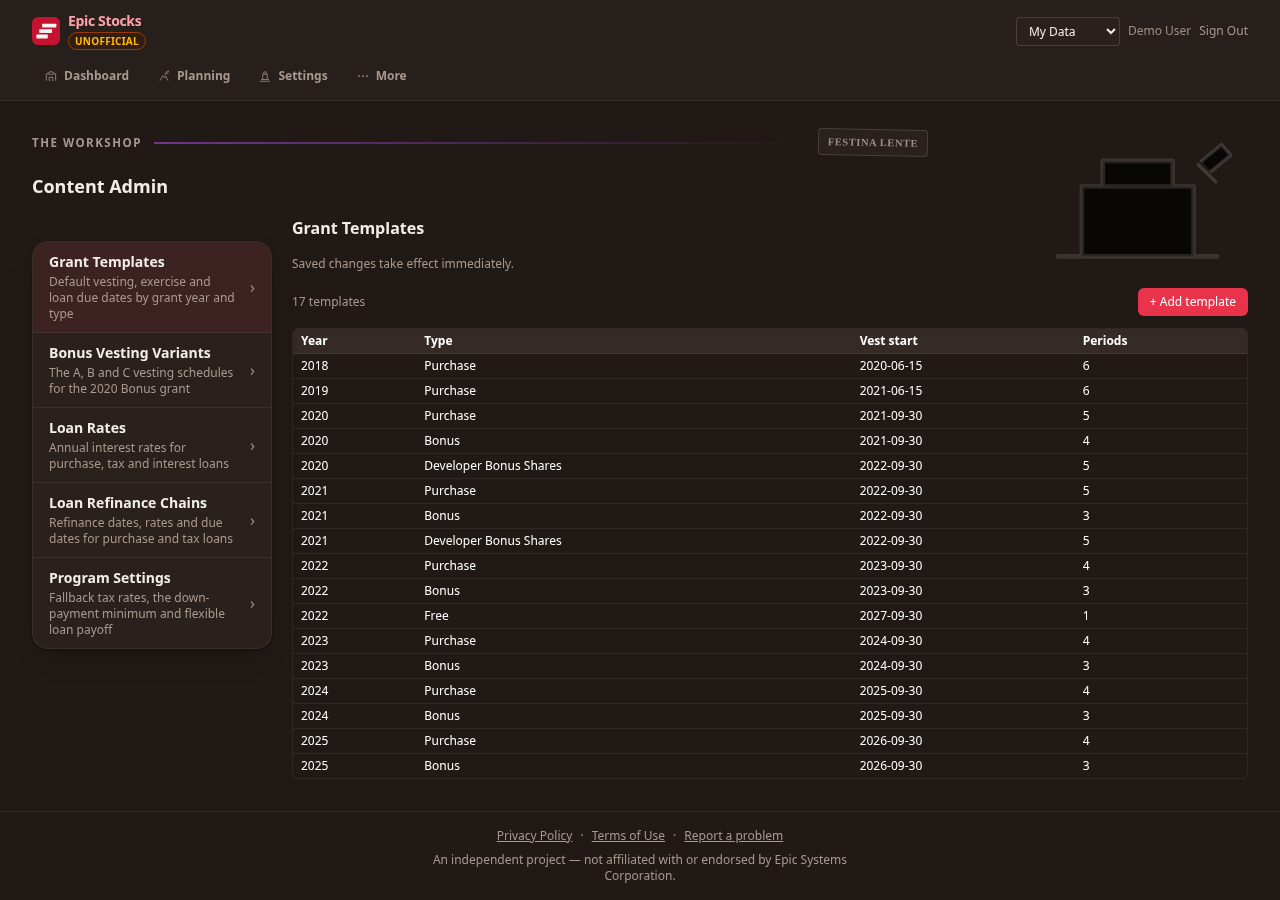
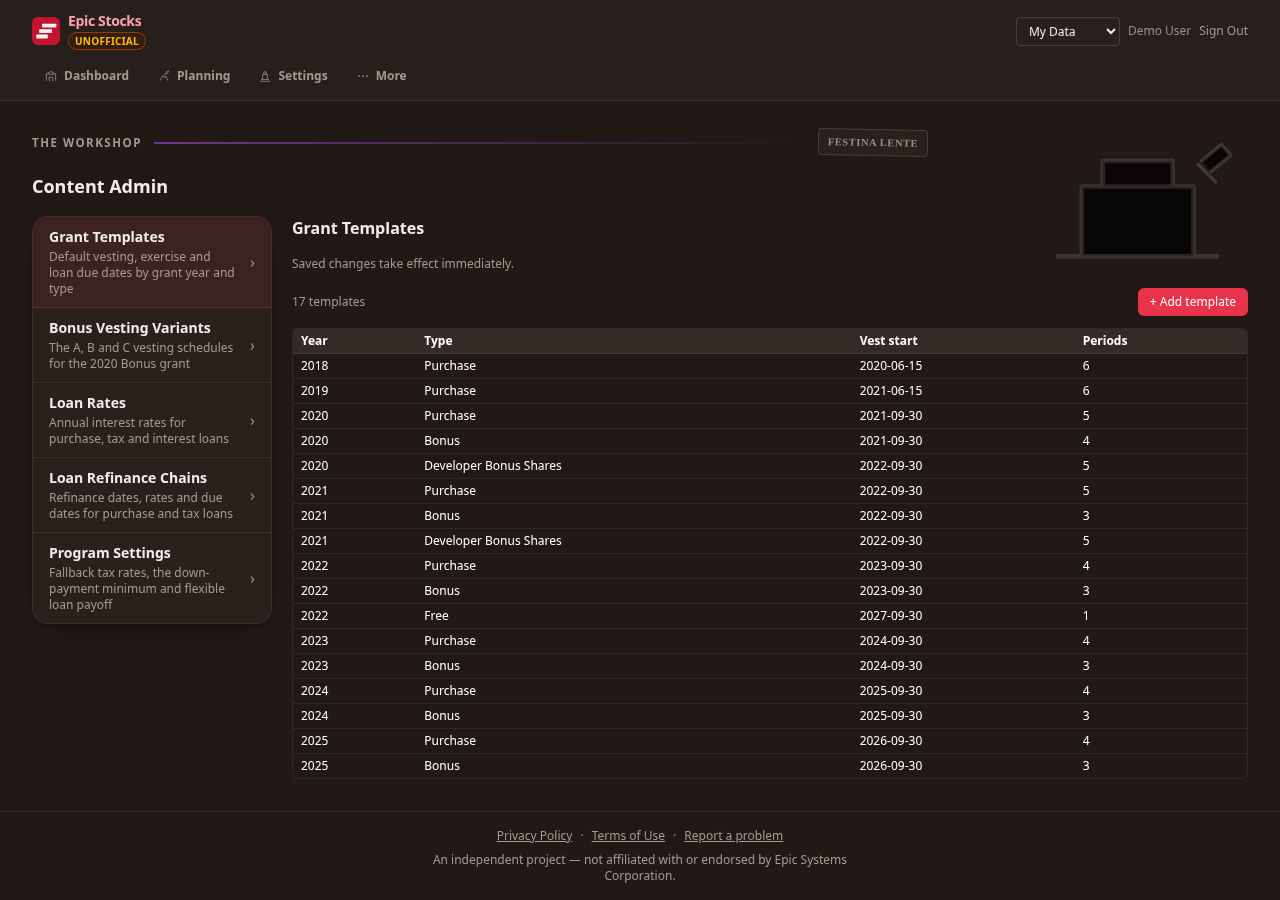
Keep admin category sidebars visible while scrolling

Changed region(s): [[0.0, 0.2178, 0.2188, 0.7156]]

diff --git a/frontend/src/scaffold/components/Layout.tsx b/frontend/src/scaffold/components/Layout.tsx
@@ -45,6 +45,7 @@ export default function Layout() {
   const workshopRoutes = ['/settings', '/connect-ai', '/content', '/admin', '/import-diagnostics']
   const isRecords = recordsRoutes.includes(location.pathname)
   const isWorkshop = workshopRoutes.includes(location.pathname)
+  const hasCategorySidebar = ['/settings', '/admin', '/content'].includes(location.pathname)
   const isPlanning = ['/planning', '/retirement'].includes(location.pathname)
   const isObservatory = isPlanning || location.pathname === '/comp-calculator'
   const moreGroups: NavigationGroup[] = [
@@ -104,7 +105,7 @@ export default function Layout() {
         </header>
       </div>
       {config && !viewing && !staging && !me?.reviewer_account && <PushNudge />}
-      <main id="main-content" ref={mainRef} tabIndex={-1} data-campus-wing={campusWing?.id} className={`campus-page-shell relative mx-auto w-full max-w-[90rem] flex-1 scroll-mt-28 px-4 py-5 pb-24 outline-none sm:px-6 sm:py-7 lg:px-8 md:pb-8 ${location.pathname === '/settings' ? 'overflow-clip' : 'overflow-hidden'}`}>
+      <main id="main-content" ref={mainRef} tabIndex={-1} data-campus-wing={campusWing?.id} className={`campus-page-shell relative mx-auto w-full max-w-[90rem] flex-1 scroll-mt-28 px-4 py-5 pb-24 outline-none sm:px-6 sm:py-7 lg:px-8 md:pb-8 ${hasCategorySidebar ? 'overflow-clip' : 'overflow-hidden'}`}>
         <CampusCorner variant={motif} className="pointer-events-none absolute -right-5 top-2 h-36 w-52 text-cs-text opacity-70 sm:right-3 lg:h-44 lg:w-64" />
         <div className="relative z-[1]">
           {me?.reviewer_account && <p role="status" className="mb-4 rounded-xl border border-cs-border bg-cs-surface p-3 text-sm font-semibold">FICTIONAL REVIEW DATA · {me.reviewer_account.platform} · {me.reviewer_account.scenario}. These are invented financial records, not actual Epic prices or personal accounts.</p>}

diff --git a/frontend/e2e/admin-navigation.spec.ts b/frontend/e2e/admin-navigation.spec.ts
@@ -28,11 +28,14 @@ test('mobile Site Admin opens one category at a time and restores focus', async 
 
 test('desktop Content Admin keeps its categories visible on a direct link', async ({ page }) => {
   await loginAs(page, 'admin@e2e.test')
-  await page.setViewportSize({ width: 1280, height: 900 })
+  await page.setViewportSize({ width: 1280, height: 600 })
   await page.goto('/content#templates')
   const categories = page.getByRole('navigation', { name: 'Content Admin categories' })
   await expect(categories.getByRole('link', { name: /^Grant Templates/ })).toHaveAttribute('aria-current', 'location')
   await expect(page.getByRole('button', { name: /Add template/ })).toBeVisible()
+  await page.evaluate(() => window.scrollTo(0, 280))
+  await expect.poll(() => page.evaluate(() => window.scrollY)).toBeGreaterThan(180)
+  await expect(categories.getByRole('link', { name: /^Grant Templates/ })).toBeInViewport({ ratio: 1 })
   await categories.getByRole('link', { name: /^Program Settings/ }).click()
   await expect(page).toHaveURL(/\/content#settings$/)
   await expect(page.getByRole('heading', { name: 'Program Settings', exact: true })).toBeVisible()
